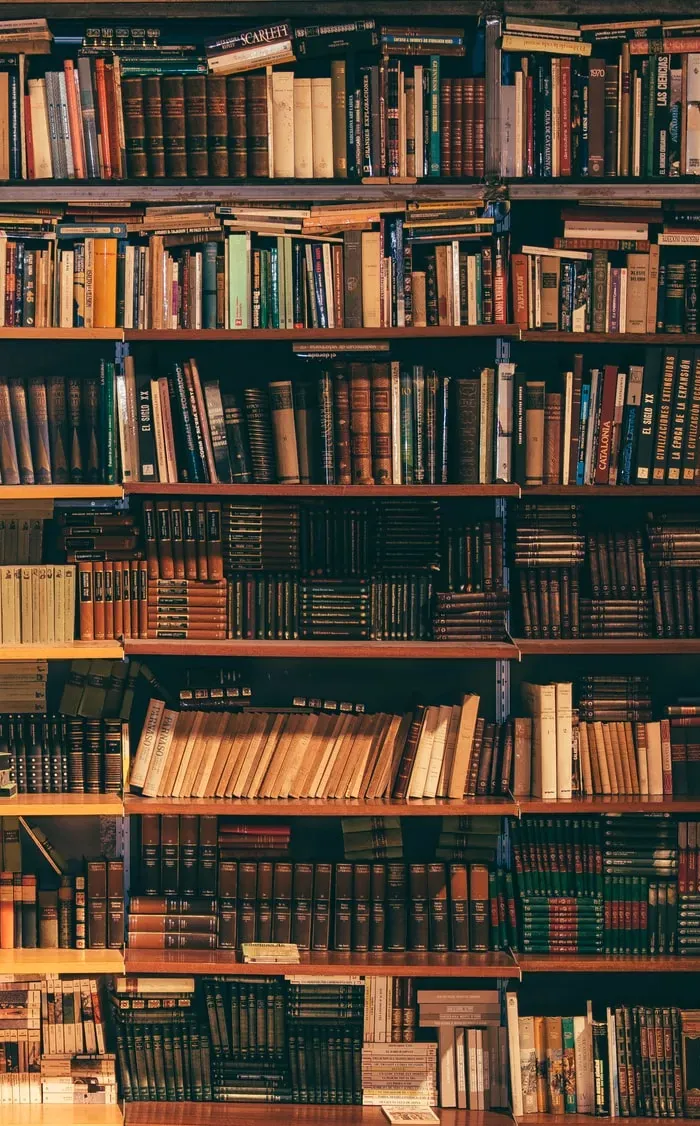
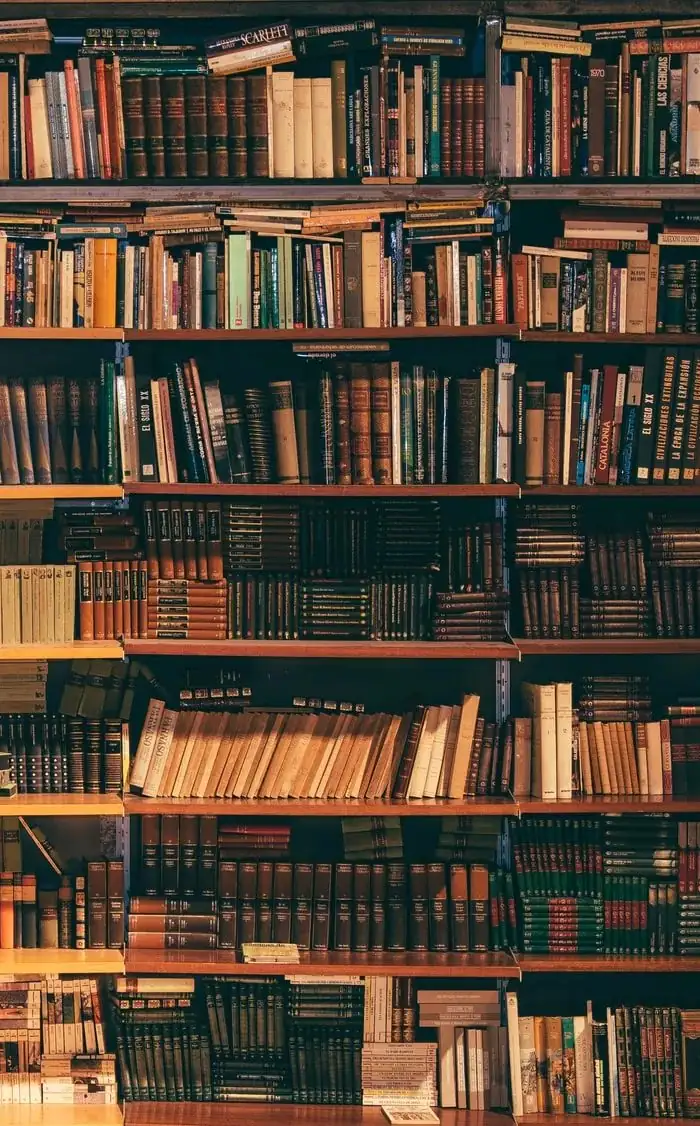
OTIMIZACAO

diff --git a/politica-de-privacidade.html b/politica-de-privacidade.html
@@ -7,7 +7,14 @@
 <meta name="description" content="Como a Soulstory trata os dados que você envia pelo formulário de contato: o que coletamos, para que usamos, por quanto tempo guardamos e quais são os seus direitos.">
 <link rel="preconnect" href="https://use.typekit.net" crossorigin>
 <link rel="preconnect" href="https://p.typekit.net" crossorigin>
-<link rel="stylesheet" href="https://use.typekit.net/wnf4ddz.css">
+<!-- O kit é buscado com prioridade alta (preload) mas sem bloquear a pintura:
+     vira folha de estilo assim que chega. O PageSpeed mediu 1.500ms de bloqueio
+     nas duas requisições em série do Typekit (o kit e o p.css que ele importa).
+     O comportamento do texto enquanto a fonte não chega é definido no painel
+     da Adobe Fonts (font-display do projeto web wnf4ddz): swap ou optional.
+     O <noscript> garante o kit para quem navega sem JavaScript. -->
+<link rel="preload" href="https://use.typekit.net/wnf4ddz.css" as="style" onload="this.onload=null;this.rel='stylesheet'">
+<noscript><link rel="stylesheet" href="https://use.typekit.net/wnf4ddz.css"></noscript>
 <link rel="stylesheet" href="estilos-base.css">
 <style>
   /* Página de texto puro. Herda fontes, tokens e design system de

diff --git a/index.html b/index.html
@@ -9,7 +9,14 @@
      para o navegador abrir a conexão e pedir o kit no primeiro byte do HTML. -->
 <link rel="preconnect" href="https://use.typekit.net" crossorigin>
 <link rel="preconnect" href="https://p.typekit.net" crossorigin>
-<link rel="stylesheet" href="https://use.typekit.net/wnf4ddz.css">
+<!-- O kit é buscado com prioridade alta (preload) mas sem bloquear a pintura:
+     vira folha de estilo assim que chega. O PageSpeed mediu 1.500ms de bloqueio
+     nas duas requisições em série do Typekit (o kit e o p.css que ele importa).
+     O comportamento do texto enquanto a fonte não chega é definido no painel
+     da Adobe Fonts (font-display do projeto web wnf4ddz): swap ou optional.
+     O <noscript> garante o kit para quem navega sem JavaScript. -->
+<link rel="preload" href="https://use.typekit.net/wnf4ddz.css" as="style" onload="this.onload=null;this.rel='stylesheet'">
+<noscript><link rel="stylesheet" href="https://use.typekit.net/wnf4ddz.css"></noscript>
 <!-- estilos-base:inicio -->
 <style>
 /* =========================================================================
